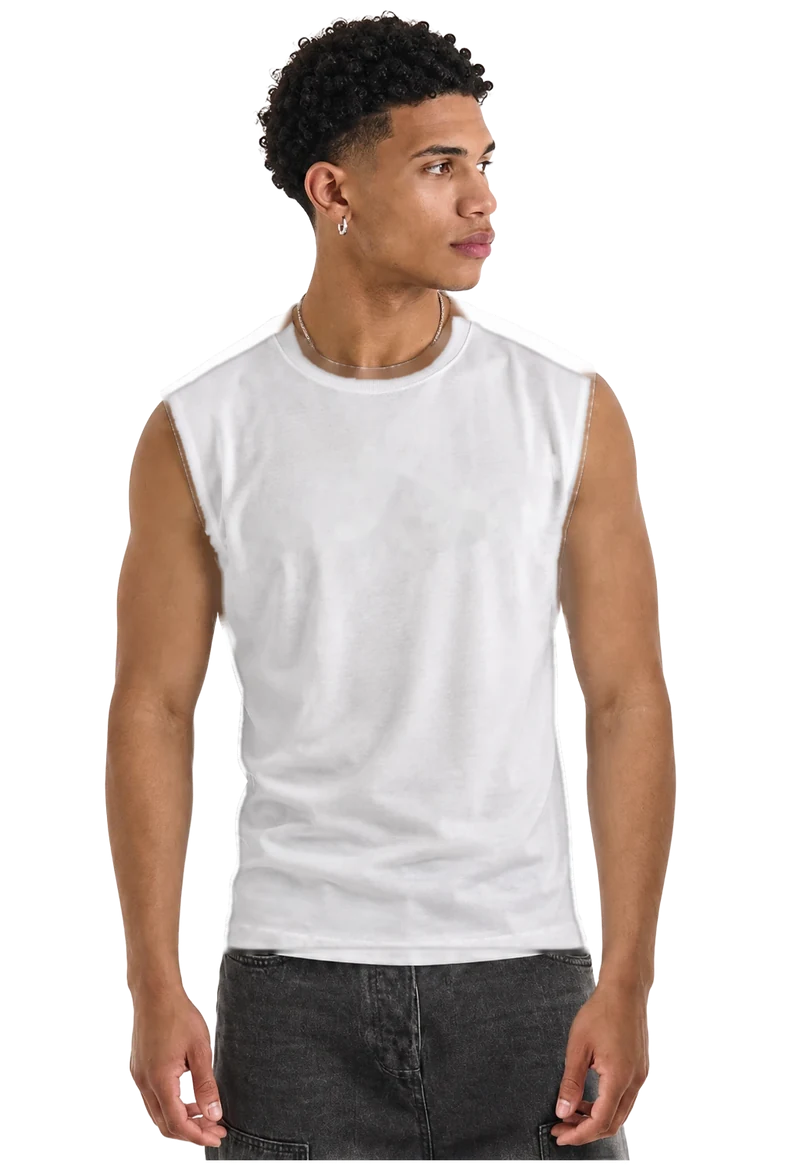
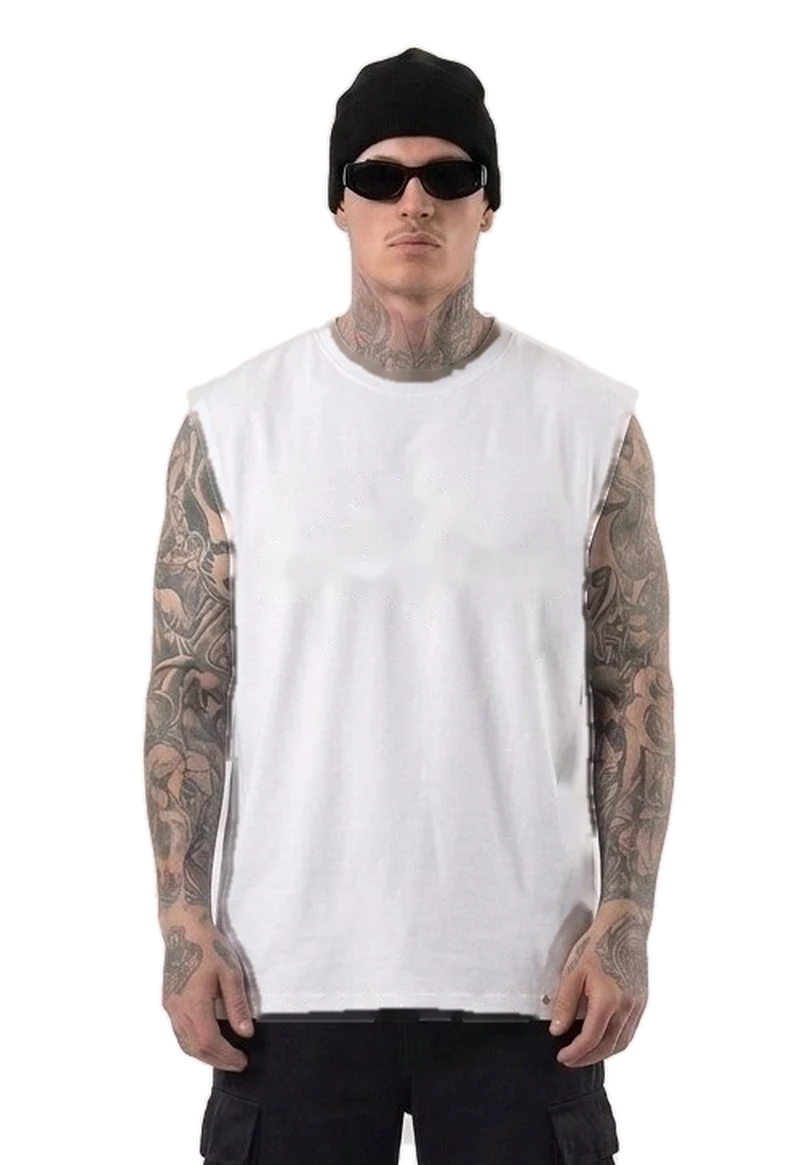
Switch the try-on to the new model
Same code and behaviour; only the images change. The body and the five
worn pieces are rebuilt from six photos of the new model (beanie,
sunglasses, tattoos), cropped head to mid-thigh on the same 800x1165
canvas. The body is the white sleeveless photo with its print removed,
so his arms and tattoos are identical under every piece.

diff --git a/index.html b/index.html
@@ -59,24 +59,24 @@
       </div>
 
       <div class="jc__model" role="img" aria-label="Model wearing the selected piece">
-        <img class="jc__body" src="jacket-carousel/assets/body.webp" alt="">
+        <img class="jc__body" src="jacket-carousel/assets/body.webp?v=2" alt="">
       </div>
 
       <div class="jc__carousel">
         <div class="jc__item">
-          <img class="jc__worn" src="jacket-carousel/assets/worn1.webp?v=3" alt="Piece 01">
+          <img class="jc__worn" src="jacket-carousel/assets/worn1.webp?v=4" alt="Piece 01">
         </div>
         <div class="jc__item">
-          <img class="jc__worn" src="jacket-carousel/assets/worn2.webp?v=3" alt="Piece 02">
+          <img class="jc__worn" src="jacket-carousel/assets/worn2.webp?v=4" alt="Piece 02">
         </div>
         <div class="jc__item">
-          <img class="jc__worn" src="jacket-carousel/assets/worn3.webp?v=3" alt="Piece 03">
+          <img class="jc__worn" src="jacket-carousel/assets/worn3.webp?v=4" alt="Piece 03">
         </div>
         <div class="jc__item">
-          <img class="jc__worn" src="jacket-carousel/assets/worn4.webp?v=3" alt="Piece 04">
+          <img class="jc__worn" src="jacket-carousel/assets/worn4.webp?v=4" alt="Piece 04">
         </div>
         <div class="jc__item">
-          <img class="jc__worn" src="jacket-carousel/assets/worn5.webp?v=3" alt="Piece 05">
+          <img class="jc__worn" src="jacket-carousel/assets/worn5.webp?v=4" alt="Piece 05">
         </div>
       </div>
 

diff --git a/jacket-carousel/section.html b/jacket-carousel/section.html
@@ -12,24 +12,24 @@
     </div>
 
     <div class="jc__model" role="img" aria-label="Model wearing the selected piece">
-      <img class="jc__body" src="jacket-carousel/assets/body.webp" alt="">
+      <img class="jc__body" src="jacket-carousel/assets/body.webp?v=2" alt="">
     </div>
 
     <div class="jc__carousel">
       <div class="jc__item">
-        <img class="jc__worn" src="jacket-carousel/assets/worn1.webp?v=3" alt="Piece 01">
+        <img class="jc__worn" src="jacket-carousel/assets/worn1.webp?v=4" alt="Piece 01">
       </div>
       <div class="jc__item">
-        <img class="jc__worn" src="jacket-carousel/assets/worn2.webp?v=3" alt="Piece 02">
+        <img class="jc__worn" src="jacket-carousel/assets/worn2.webp?v=4" alt="Piece 02">
       </div>
       <div class="jc__item">
-        <img class="jc__worn" src="jacket-carousel/assets/worn3.webp?v=3" alt="Piece 03">
+        <img class="jc__worn" src="jacket-carousel/assets/worn3.webp?v=4" alt="Piece 03">
       </div>
       <div class="jc__item">
-        <img class="jc__worn" src="jacket-carousel/assets/worn4.webp?v=3" alt="Piece 04">
+        <img class="jc__worn" src="jacket-carousel/assets/worn4.webp?v=4" alt="Piece 04">
       </div>
       <div class="jc__item">
-        <img class="jc__worn" src="jacket-carousel/assets/worn5.webp?v=3" alt="Piece 05">
+        <img class="jc__worn" src="jacket-carousel/assets/worn5.webp?v=4" alt="Piece 05">
       </div>
     </div>
 
